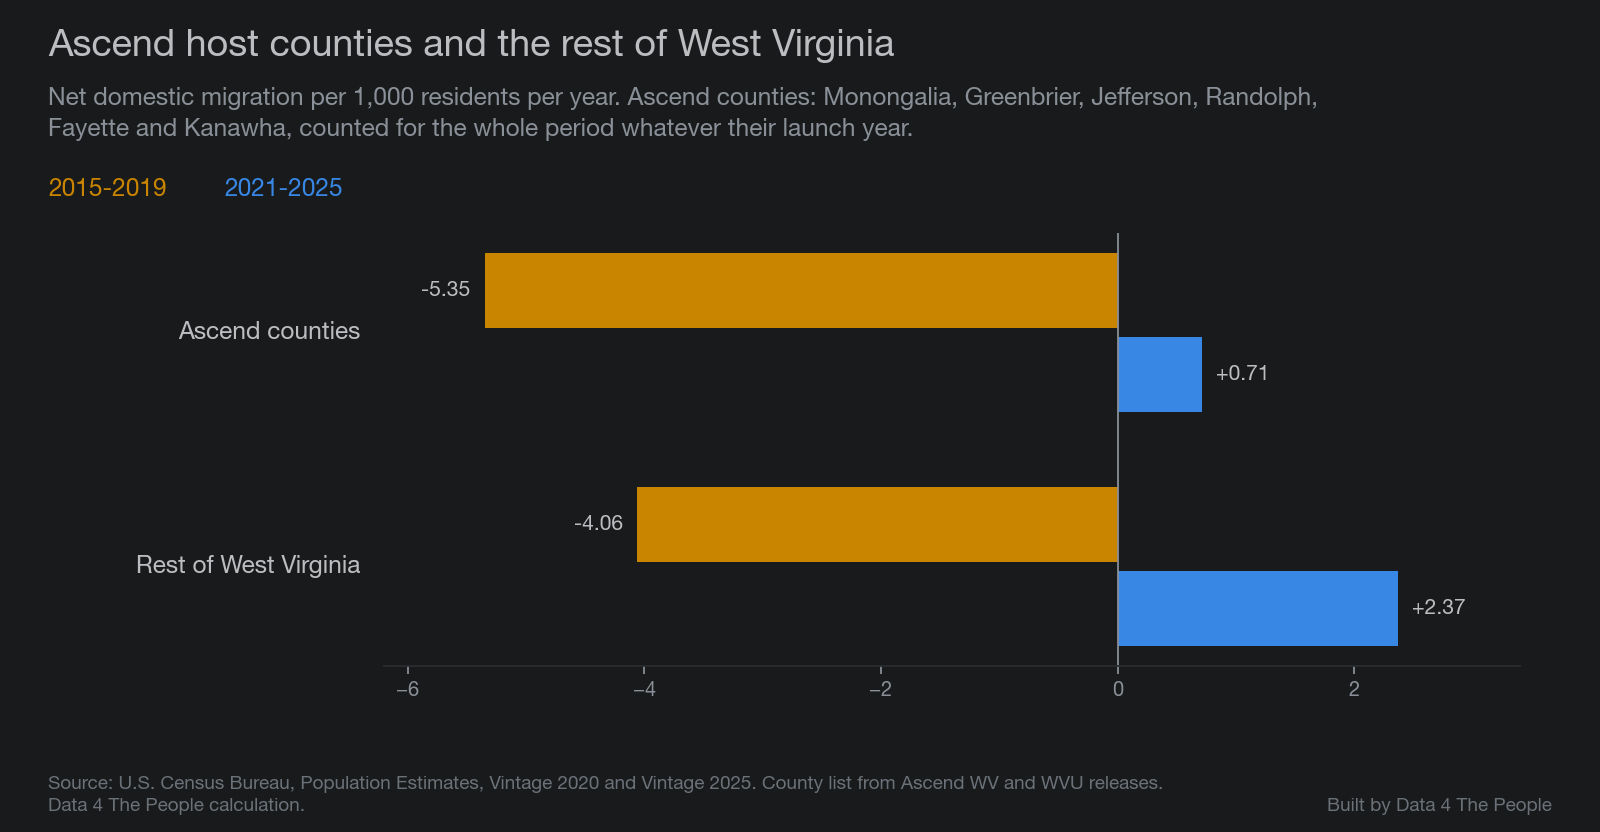
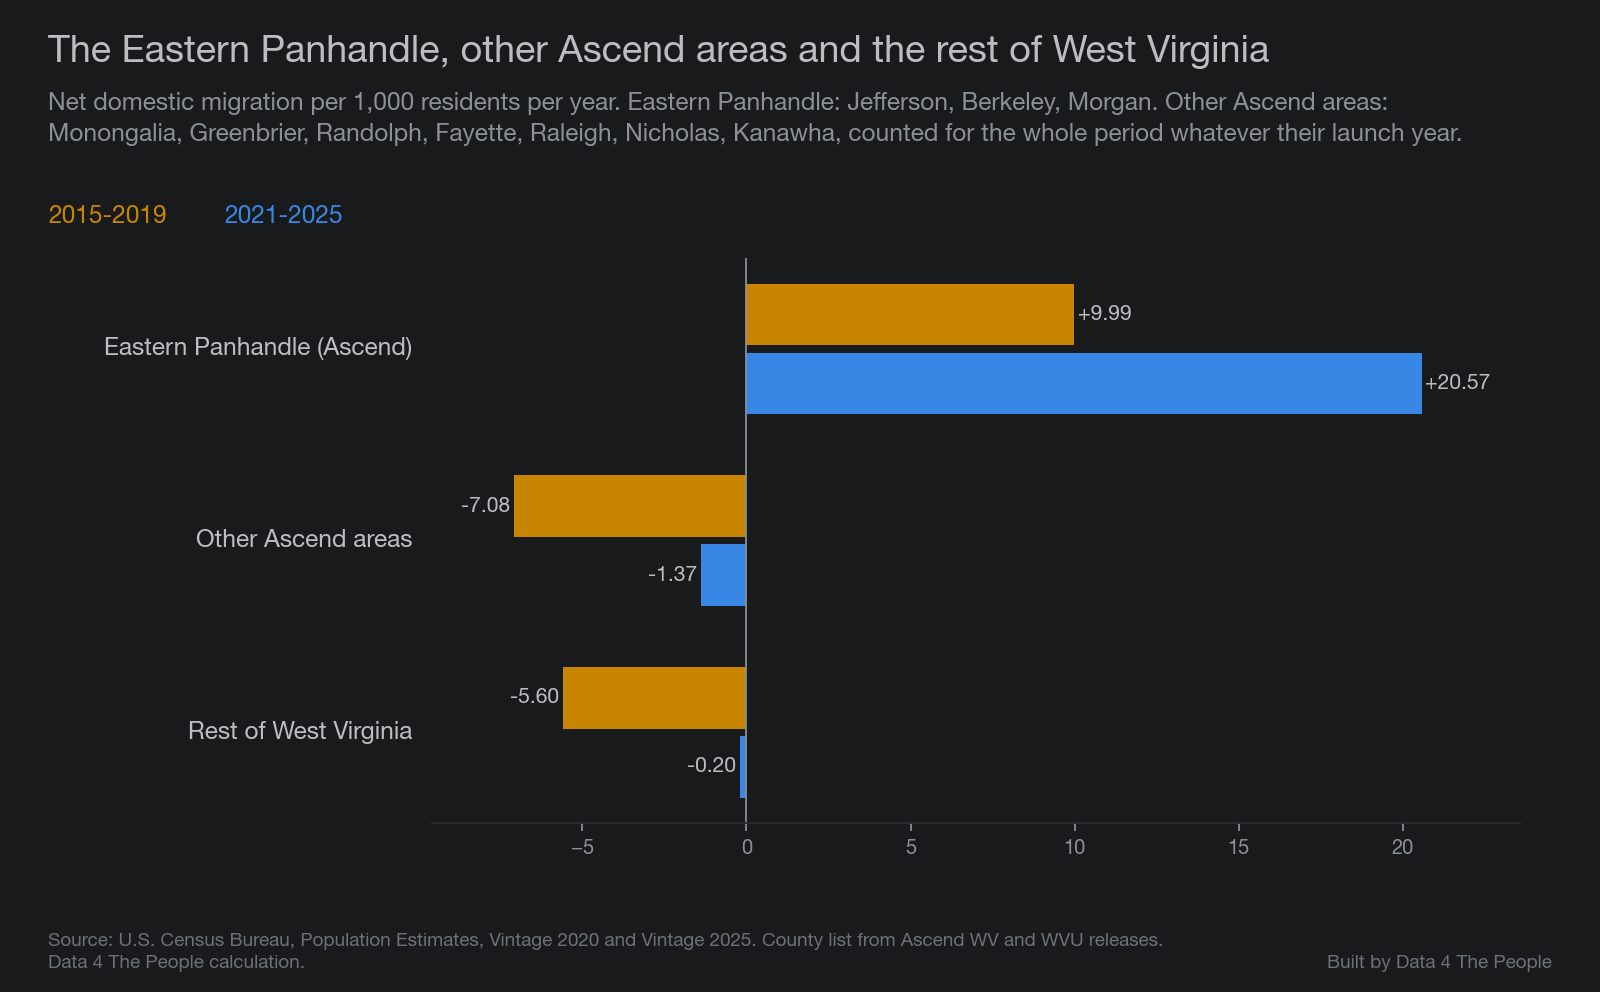
WV_Ascend_Movers: Ascend reported figures, corrected county list, Panhandle split, chart 5
County list now follows the community pages: Eastern Panhandle adds Berkeley and Morgan,
New River Gorge adds Raleigh and Nicholas. DATASETS.md updated in the same commit.

diff --git a/scripts/06_charts.py b/scripts/06_charts.py
@@ -126,9 +126,11 @@ def chart_state_change():
 
 def chart_counties():
     rows = {r["county"]: r for r in read("county_compare.csv")}
-    groups = ["Ascend counties", "Rest of West Virginia"]
-    fig, ax = plt.subplots(figsize=(10, 5.2))
-    fig.subplots_adjust(top=0.72, bottom=0.2, left=0.24, right=0.95)
+    groups = ["Eastern Panhandle (Ascend)", "Other Ascend areas", "Rest of West Virginia"]
+    fig, ax = plt.subplots(figsize=(10, 6.2))
+    fig.subplots_adjust(top=0.74, bottom=0.17, left=0.27, right=0.95)
+    vals = [float(rows[g][c]) for g in groups for c in ("rate_2015_2019", "rate_2021_2025")]
+    lo, hi = min(vals) - 2.5, max(vals) + 3
     for i, g in enumerate(groups):
         for j, (col, color) in enumerate([("rate_2015_2019", YELLOW), ("rate_2021_2025", BLUE)]):
             v = float(rows[g][col])
@@ -136,26 +138,72 @@ def chart_counties():
             ax.barh(y, v, height=0.32, color=color)
             ax.text(v + (0.12 if v >= 0 else -0.12), y, f"{v:+.2f}", va="center",
                     ha="left" if v >= 0 else "right", fontsize=9.5, color=INK)
-        ax.text(-6.4, i, g, ha="right", va="center", fontsize=11, color=INK)
+        ax.text(lo - 0.6, i, g, ha="right", va="center", fontsize=11, color=INK)
     ax.set_yticks([])
     ax.invert_yaxis()
     ax.axvline(0, color=INK_DIM, lw=0.8)
-    ax.set_xlim(-6.2, 3.4)
+    ax.set_xlim(lo, hi)
     ax.spines["left"].set_visible(False)
     ax.tick_params(axis="x", labelsize=9)
-    fig.text(0.03, 0.765, "2015-2019", color=YELLOW, fontsize=11, fontweight="bold")
-    fig.text(0.14, 0.765, "2021-2025", color=BLUE, fontsize=11, fontweight="bold")
-    titleblock(fig, "Ascend host counties and the rest of West Virginia",
-               "Net domestic migration per 1,000 residents per year. Ascend counties: Monongalia, Greenbrier, "
-               "Jefferson, Randolph,\nFayette and Kanawha, counted for the whole period whatever their launch "
-               "year.")
+    fig.text(0.03, 0.775, "2015-2019", color=YELLOW, fontsize=11, fontweight="bold")
+    fig.text(0.14, 0.775, "2021-2025", color=BLUE, fontsize=11, fontweight="bold")
+    titleblock(fig, "The Eastern Panhandle, other Ascend areas and the rest of West Virginia",
+               "Net domestic migration per 1,000 residents per year. Eastern Panhandle: Jefferson, Berkeley, Morgan. "
+               "Other Ascend areas:\nMonongalia, Greenbrier, Randolph, Fayette, Raleigh, Nicholas, Kanawha, "
+               "counted for the whole period whatever their launch year.")
     credit(fig, "Source: U.S. Census Bureau, Population Estimates, Vintage 2020 and Vintage 2025. "
                 "County list from Ascend WV and WVU releases.\nData 4 The People calculation.")
     fig.savefig(CHARTS / "04-ascend-counties-vs-rest.png")
     plt.close(fig)
 
 
+def chart_ascend_reported():
+    import datetime as dt
+    rows = list(csv.DictReader(open(PROC.parent / "ascend_reported.csv")))
+    fig, ax = plt.subplots(figsize=(10, 6.2))
+    fig.subplots_adjust(top=0.76, bottom=0.17, left=0.09, right=0.84)
+    for measure, color, label in [("new_residents_incl_family", BLUE, "New residents,\nincl. family"),
+                                  ("participants", YELLOW, "Members\n(the workers)")]:
+        pts = sorted((dt.date.fromisoformat(r["publish_date"]), int(r["value"]), r["unit"])
+                     for r in rows if r["measure"] == measure)
+        ax.scatter([p[0] for p in pts], [p[1] for p in pts], color=color, s=34, zorder=3)
+        labels = []   # dots published within 10 days of each other share one label
+        for d, v, u in pts:
+            txt = ("~" if any(w in u for w in ("more than", "nearly")) else "") + f"{v:,}"
+            if labels and (d - labels[-1][0]).days <= 10:
+                labels[-1][2].append(txt)
+                labels[-1][1] = max(labels[-1][1], v)
+            else:
+                labels.append([d, v, [txt]])
+        below = measure == "participants"
+        for d, v, txts in labels:
+            merged = len(txts) > 1
+            ax.annotate(" / ".join(txts), (d, v), textcoords="offset points",
+                        xytext=(-8 if merged else 0, -15 if below else 8),
+                        ha="right" if merged else "center", fontsize=8, color=color)
+        ax.text(pts[-1][0] + dt.timedelta(days=60), pts[-1][1], label, color=color, fontsize=10.5,
+                fontweight="bold", va="center")
+    goal = [r for r in rows if r["measure"] == "goal_remote_workers"][0]
+    ax.axhline(int(goal["value"]), color=MUTED, lw=1, ls=(0, (3, 3)))
+    ax.text(dt.date(2021, 6, 1), int(goal["value"]) + 30, "Goal: 1,000 remote workers in five years (Sept. 2021)",
+            color=INK_DIM, fontsize=9)
+    ax.yaxis.set_major_formatter(lambda v, _: f"{int(v):,}")
+    ax.yaxis.grid(True)
+    ax.set_axisbelow(True)
+    ax.set_ylim(0, 1700)
+    titleblock(fig, "Ascend WV's own counts of who has moved",
+               "Each dot is a figure the program, WVU, or a news story quoting them published, on the date "
+               "published. \"~\" marks \"more than\" or\n\"nearly.\" Figures are not independently checked, "
+               "and some disagree with each other.")
+    credit(fig, "Sources: Ascend WV releases, WVU OEDC Quarter 4 2025 statistics, WV MetroNews, Parkersburg News "
+                "and Sentinel, Wonderful West Virginia,\nWV Chamber magazine, PR Newswire, WVPA. Full list with "
+                "quotes in data/ascend_reported.csv.")
+    fig.savefig(CHARTS / "05-ascend-reported-counts.png")
+    plt.close(fig)
+
+
 if __name__ == "__main__":
+    chart_ascend_reported()
     chart_wv_domestic()
     chart_irs_flows()
     chart_state_change()

diff --git a/scripts/04_county_compare.py b/scripts/04_county_compare.py
@@ -9,19 +9,24 @@ Two periods: 2015-2019 (years ending July 1) and 2021-2025. The year ending July
 it straddles the pandemic start and sits at the seam between the two Census vintages.
 
 ASCEND maps each host community to the county or counties it covers, with the launch date.
-Source for each row is in data/ascend_communities.csv.
+Source for each community is in data/ascend_communities.csv.
 """
 import collections
 import csv
 
 from common import PROC, write_csv
 
-ASCEND = {   # fips: (community, year Ascend launched there)
+ASCEND = {   # fips: (community, year applications opened there). Counties inferred from the school systems
+    # each community page names; the program says areas are "a rough 30-minute drivetime" from the center city.
     "54061": ("Morgantown", 2021),
     "54025": ("Greenbrier Valley", 2021),
-    "54037": ("Eastern Panhandle", 2021),
+    "54037": ("Eastern Panhandle", 2022),
+    "54003": ("Eastern Panhandle", 2022),
+    "54065": ("Eastern Panhandle", 2022),
     "54083": ("Greater Elkins", 2022),
     "54019": ("New River Gorge", 2023),
+    "54081": ("New River Gorge", 2023),
+    "54067": ("New River Gorge", 2023),
     "54039": ("Charleston", 2025),
 }
 PERIODS = {"2015-2019": range(2015, 2020), "2021-2025": range(2021, 2026)}
@@ -45,8 +50,12 @@ def main():
         for years in PERIODS.values():
             out += list(rate([f], years))
         rows.append(out)
+    panhandle = [f for f in ASCEND if ASCEND[f][0] == "Eastern Panhandle"]
     groups = {"Ascend counties": [f for f in data if f in ASCEND],
+              "Eastern Panhandle (Ascend)": panhandle,
+              "Other Ascend areas": [f for f in ASCEND if f not in panhandle],
               "Rest of West Virginia": [f for f in data if f not in ASCEND],
+              "West Virginia minus Eastern Panhandle": [f for f in data if f not in panhandle],
               "West Virginia, all counties": list(data)}
     for g, fs in groups.items():
         out = ["", g, "", ""]

diff --git a/scripts/03_ascend_reported.py b/scripts/03_ascend_reported.py
@@ -1,0 +1,39 @@
+"""Checks the hand-built table of Ascend WV figures (data/ascend_reported.csv) and prints each measure over time.
+
+Every row is a figure the program, WVU or a news story quoting them published. None of it is recomputed;
+there is no public participant-level data. Conflicts are kept, not resolved.
+"""
+import collections
+import csv
+
+from common import ROOT
+
+REQUIRED = ["publish_date", "measure", "unit", "source_name", "url", "exact_quote"]
+
+
+def main():
+    rows = list(csv.DictReader(open(ROOT / "data" / "ascend_reported.csv")))
+    seen = set()
+    for i, r in enumerate(rows, 2):
+        for k in REQUIRED:
+            if not r[k]:
+                raise SystemExit(f"line {i}: {k} is empty")
+        if not r["url"].startswith("https://"):
+            raise SystemExit(f"line {i}: url is not https")
+        key = (r["publish_date"], r["measure"], r["value"], r["url"])
+        if key in seen:
+            raise SystemExit(f"line {i}: duplicate row {key}")
+        seen.add(key)
+    by = collections.defaultdict(list)
+    for r in rows:
+        by[r["measure"]].append(r)
+    for m in ["participants", "new_residents_incl_family", "retention_pct", "economic_impact_usd",
+              "funding_usd", "completed_two_years"]:
+        print(f"\n{m}")
+        for r in sorted(by[m], key=lambda r: r["publish_date"]):
+            print(f"  {r['publish_date']}  {r['value'] or '-':>11}  {r['unit']:<22} {r['source_name']}")
+    print(f"\n{len(rows)} rows, {len(by)} measures, all with source and quote")
+
+
+if __name__ == "__main__":
+    main()

diff --git a/DATASETS.md b/DATASETS.md
@@ -224,6 +224,56 @@ CGR's full report; the Vermont State Auditor's 2019 report.
 
 ---
 
-## Ascend WV figures
+## Ascend WV program-reported figures, `data/ascend_reported.csv` and `data/ascend_communities.csv`
 
-Section to come once the program-reported figures are collected and sourced.
+**What it is.** One row per figure the program, WVU, or a news story quoting
+them published: date, measure, value, unit, scope, source, URL and the exact
+words. Checked by `scripts/03_ascend_reported.py` (every row has a source and
+quote; no duplicates). Nothing here is recomputed: there is no public
+participant-level data.
+
+**The one primary statistical source.** WVU OEDC, "Ascend WV Quarter 4
+Statistics," dated February 6, 2026: 618 members, 1,161 people including
+households, 116 members who completed the two-year program, 95.5% retention,
+more than 79,780 applications, average salary $94,617.
+
+**Definitions and conflicts.**
+- **Retention.** The Q4 2025 report defines it as members in the program at
+  least four months who stayed. No other source defines it. NPR describes 96%
+  as remaining "after the program's two-year commitment ends"; a 2023 release
+  says "in first two years"; a 2026 release says "since its launch." Values
+  published: 98%, 97%, 96%, 96.2%, 96.4%, 95.5%.
+- **Members vs residents.** "Members" or "participants" are the remote
+  workers; "new residents" adds family. Some stories use "individuals" for the
+  residents figure.
+- **Residents counts do not always rise.** August 2024: 295 members plus 272
+  family (567); September 2024: "over 400." September 2025: "nearly 1,000" in
+  a headline and "more than 900" in the body of the same release. Q4 2025:
+  1,161; May 2026: 1,412, with members rising only from 618 to 668.
+- **Economic impact.** A pre-launch WVU Bureau of Business and Economic
+  Research projection of at least $182.6 million (January 2022). In January
+  2023 the director said it was too early for a dollar figure. Later: "$500
+  million" (2025, 2026), "$580 million" from a "2023 WVU study" (NPR, July
+  2026; no document found), and "closer to $750 million" (program officials,
+  July 2026). No method is published for any of these.
+- **Money.** The $25 million Smith gift went to the Outdoor Economic
+  Development Collaborative as a whole, not to Ascend alone. Also found:
+  $2.4 million in federal Rural Health Transformation funds for a healthcare
+  expansion (September 2026) and a $500,000 private donation for Charleston
+  (September 2026). No total program spending, state appropriation, or cost per
+  member is published.
+- **Incentive.** $12,000 cash paid over 24 months (members who leave early
+  keep what they received), with a package the program values at more than
+  $20,000 including recreation. Ascend Heroes (veterans, 2026) offers $20,000.
+
+**Communities.** Six areas. Counties are inferred from the school systems each
+community page names; the program says each area is "a rough 30-minute
+drivetime" from its center city, so county lines are an approximation:
+Morgantown (Monongalia), Greenbrier Valley (Greenbrier), Eastern Panhandle
+(Jefferson, Berkeley, Morgan), Greater Elkins (Randolph), New River Gorge
+(Fayette, Raleigh, Nicholas), Charleston (Kanawha). Dates and URLs in
+`data/ascend_communities.csv`.
+
+**Not checked.** WVU Today pages and the OEDC five-year impact report block
+automated reading; the same releases were read from ascendwv.com copies. The
+NPR story was read from Michigan Public's copy.
